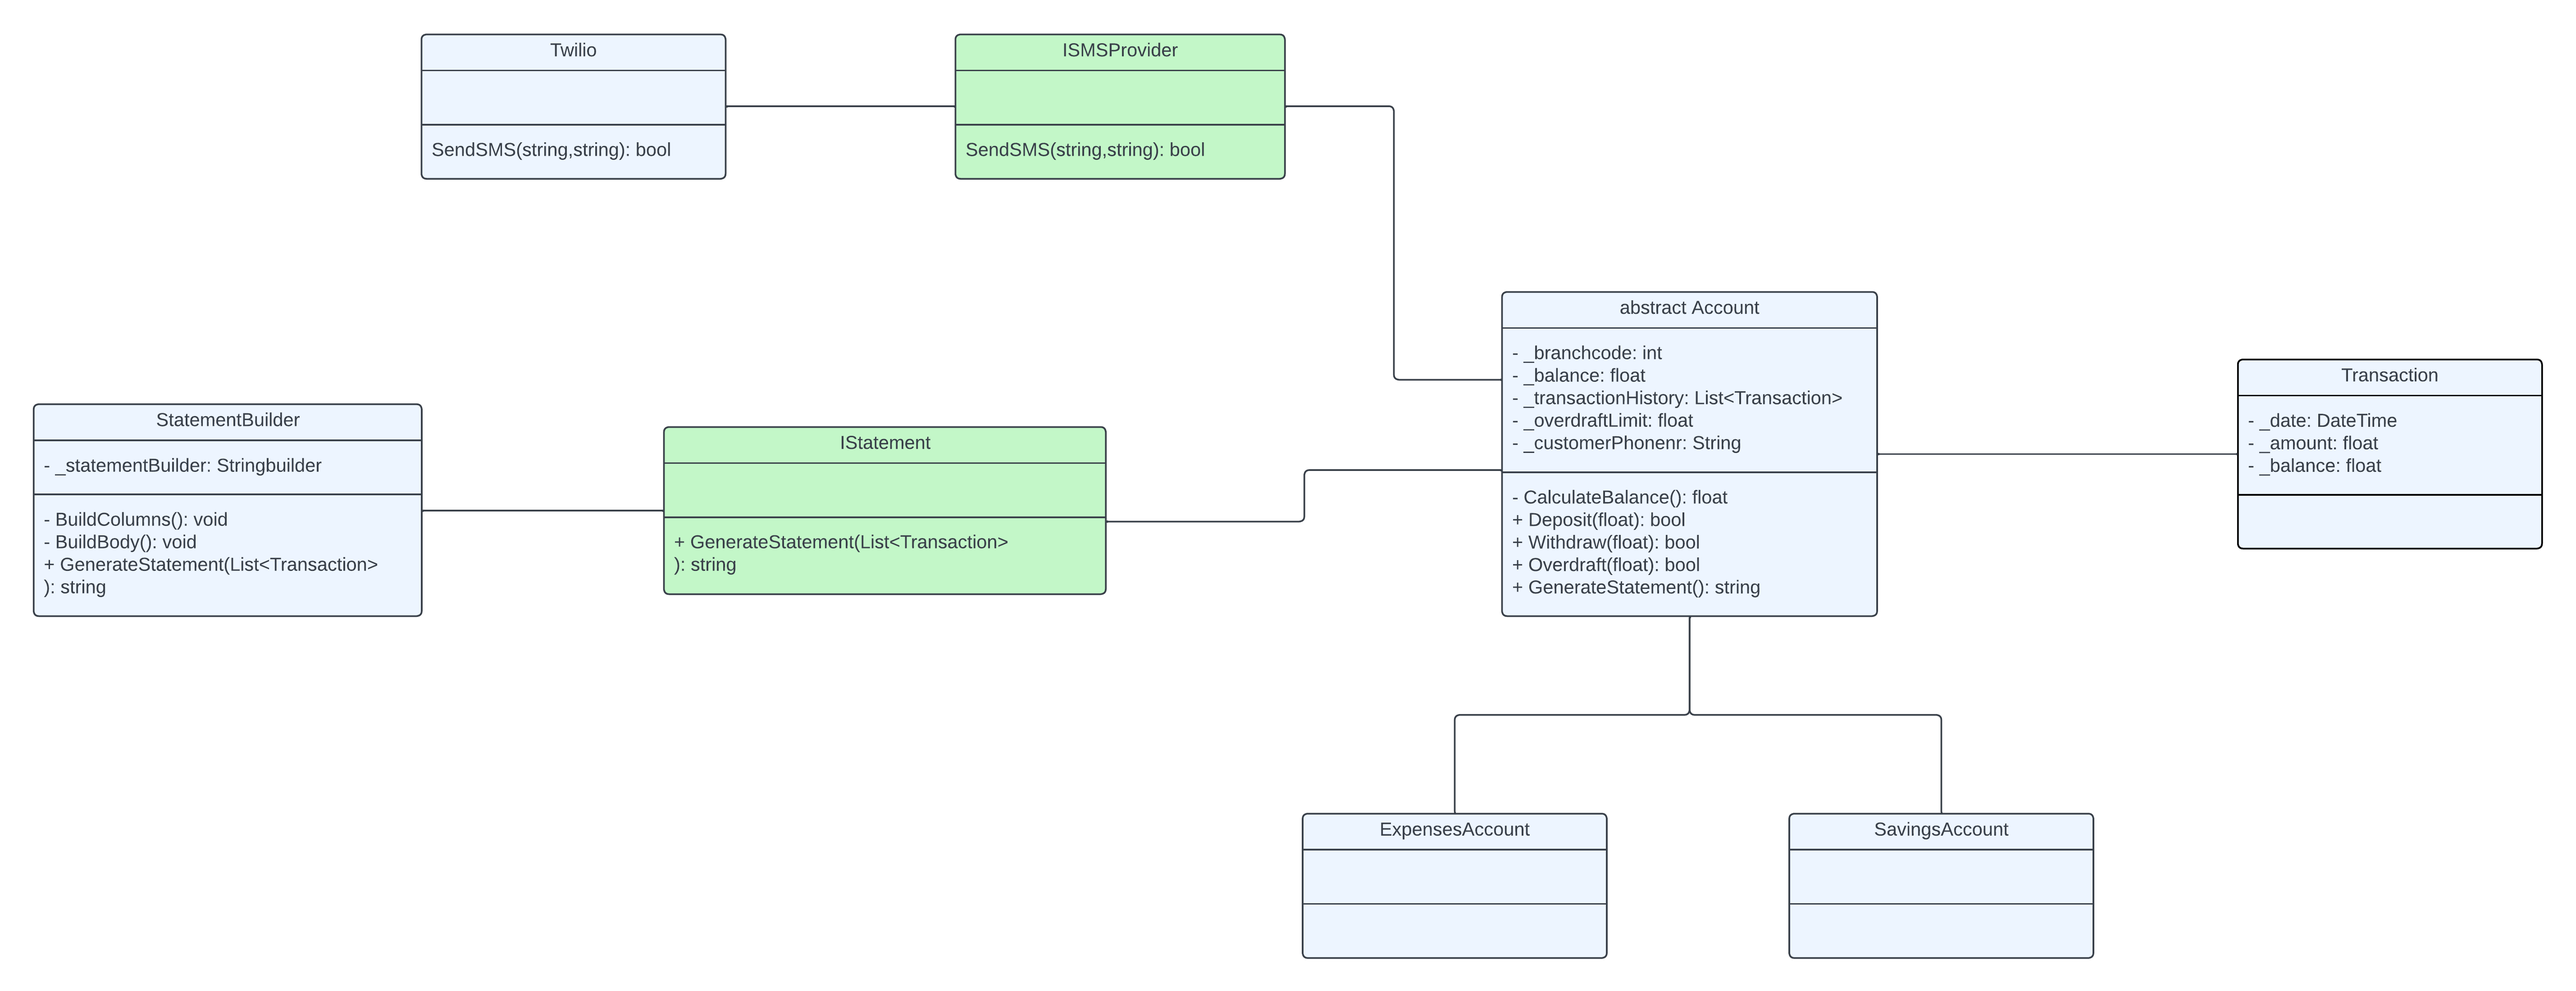
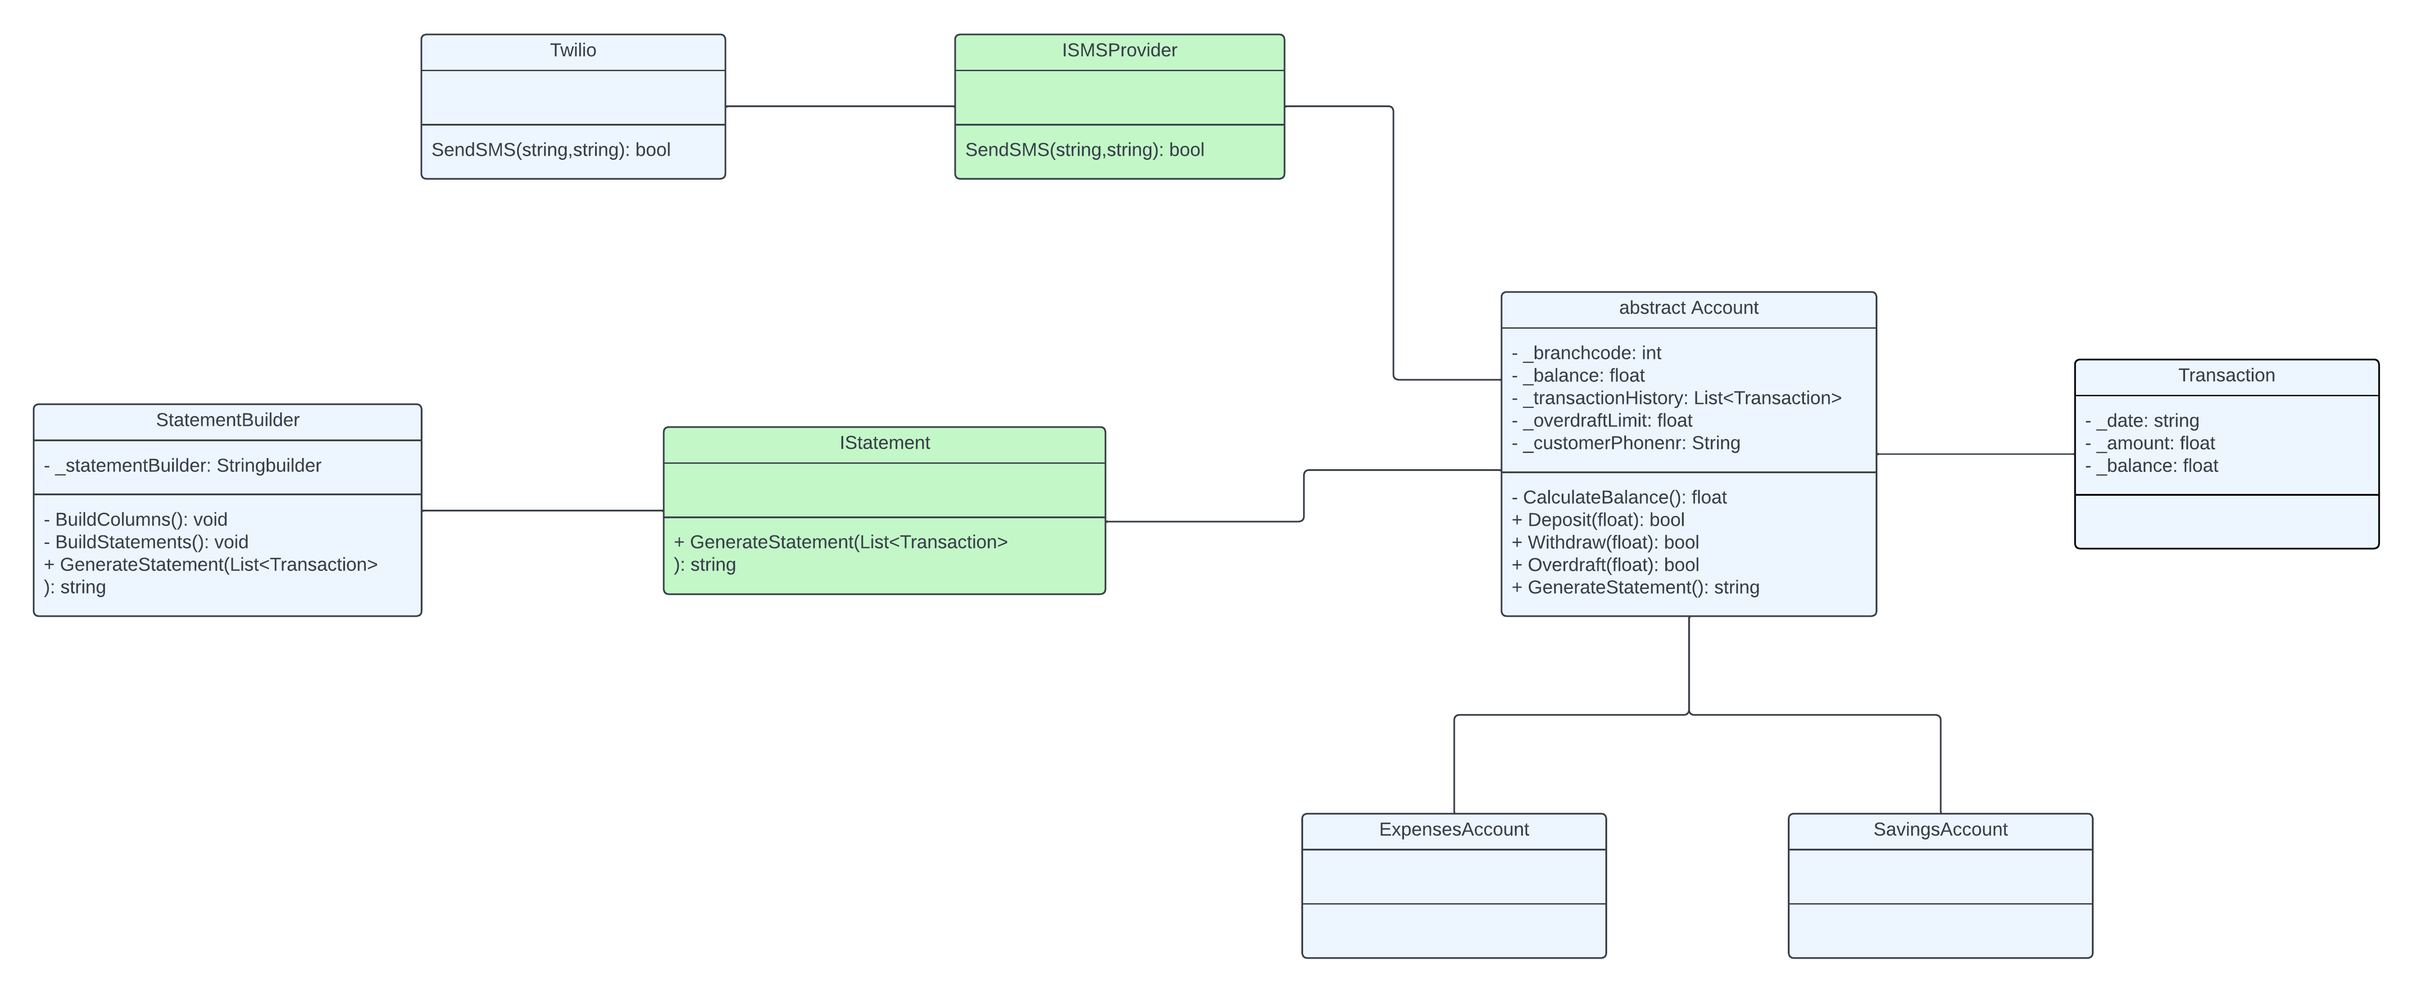
Updated domain model. Added skeleton for tests and code. gitignore for .env

diff --git a/Boolean.CSharp.Main/Account.cs b/Boolean.CSharp.Main/Account.cs
@@ -1,12 +1,23 @@
-using System;
-using System.Collections.Generic;
-using System.Linq;
-using System.Text;
-using System.Threading.Tasks;
-
-namespace Boolean.CSharp.Main
+namespace Boolean.CSharp.Main
 {
     public abstract class Account
     {
+        private float _branchcode;
+        private float _balance { get { return CalculateBalance(); } }
+        private List<Transaction> _transactionHistory = [];
+        private float _overdraftLimit = 1000f;
+        private string _customerPhoneNumber;
+
+        public Account(float branchcode, string customerPhoneNumber)
+        {
+            _branchcode = branchcode;
+            _customerPhoneNumber = customerPhoneNumber;
+        }
+
+        private float CalculateBalance() {throw new NotImplementedException(); }
+        public bool Deposit(float amount) { throw new NotImplementedException(); }
+        public bool Withdraw(float amount) {throw new NotImplementedException();}
+        public bool Overdraft(float amount){throw new NotImplementedException();}
+        public string GenerateStatement() { throw new NotImplementedException(); }
     }
 }

diff --git a/Boolean.CSharp.Test/CoreTests.cs b/Boolean.CSharp.Test/CoreTests.cs
@@ -6,19 +6,55 @@ namespace Boolean.CSharp.Test
     [TestFixture]
     public class CoreTests
     {
-        private Core _core;
-
-        public CoreTests()
-        {
-            _core = new Core();
-
-        }
-
         [Test]
-        public void TestQuestion1()
+        public void CreateAccount()
         {
 
         }
+        [Test]
+        public void CreateSavingsAccount()
+        {
 
+        }
+        [Test]
+        public void Deposit()
+        {
+
+        }
+        [Test]
+        public void DepositNothing()
+        {
+
+        }
+        [Test]
+        public void DepositNegative()
+        {
+
+        }
+        [Test]
+        public void Withdraw()
+        {
+
+        }
+        [Test]
+        public void WithdrawNegative()
+        {
+
+        }
+        [Test]
+        public void WithdrawMoreThanBalance()
+        {
+
+        }
+        [Test]
+        public void GenerateValidStatement()
+        {
+
+        }
+        [Test]
+        public void GenerateStatementFromNoTransactions()
+        {
+
+        }
     }
 }

diff --git a/Boolean.CSharp.Test/ExtensionTests.cs b/Boolean.CSharp.Test/ExtensionTests.cs
@@ -11,18 +11,18 @@ namespace Boolean.CSharp.Test
     [TestFixture]
     public class ExtensionTests
     {
-        private Extension _extension;
-        public ExtensionTests()
-        {
-            _extension = new Extension();
-        }
         [Test]
-        private void TestQuestion1()
+        public void Overdraft()
         {
 
         }
         [Test]
-        private void TestQuestion2()
+        public void OverdraftBeyondLimit()
+        {
+
+        }
+        [Test]
+        public void OverdraftPositiveBalance()
         {
 
         }

diff --git a/Boolean.CSharp.Main/StatementBuilder.cs b/Boolean.CSharp.Main/StatementBuilder.cs
@@ -8,5 +8,13 @@ namespace Boolean.CSharp.Main
 {
     public class StatementBuilder : IStatement
     {
+        private StringBuilder _statementBuilder = new();
+
+        private void BuildColumns() { throw new NotImplementedException(); }
+        private void BuildStatements() { throw new NotImplementedException(); }
+        public string GenerateStatement(List<Transaction> transactions)
+        {
+            throw new NotImplementedException();
+        }
     }
 }

diff --git a/Boolean.CSharp.Main/Transaction.cs b/Boolean.CSharp.Main/Transaction.cs
@@ -6,7 +6,11 @@ using System.Threading.Tasks;
 
 namespace Boolean.CSharp.Main
 {
-    public class Transaction
+    public class Transaction(float amount, float balance)
     {
+        private string _date = DateTime.Now.ToString("dd/MM/yyyy");
+        private float _amount = amount;
+        private float _balance = balance;
+
     }
 }

diff --git a/Boolean.CSharp.Main/ExpensesAccount.cs b/Boolean.CSharp.Main/ExpensesAccount.cs
@@ -8,5 +8,8 @@ namespace Boolean.CSharp.Main
 {
     public class ExpensesAccount : Account
     {
+        public ExpensesAccount(float branchcode, string customerPhoneNumber) : base(branchcode, customerPhoneNumber)
+        {
+        }
     }
 }

diff --git a/Boolean.CSharp.Main/SavingsAccount.cs b/Boolean.CSharp.Main/SavingsAccount.cs
@@ -8,5 +8,8 @@ namespace Boolean.CSharp.Main
 {
     public class SavingsAccount : Account
     {
+        public SavingsAccount(float branchcode, string customerPhoneNumber) : base(branchcode, customerPhoneNumber)
+        {
+        }
     }
 }

diff --git a/Boolean.CSharp.Main/Twilio.cs b/Boolean.CSharp.Main/Twilio.cs
@@ -8,5 +8,9 @@ namespace Boolean.CSharp.Main
 {
     public class Twilio : ISMSProvider
     {
+        public bool SendSMS(string phonenr, string statement)
+        {
+            throw new NotImplementedException();
+        }
     }
 }

diff --git a/Boolean.CSharp.Main/IStatement.cs b/Boolean.CSharp.Main/IStatement.cs
@@ -8,5 +8,7 @@ namespace Boolean.CSharp.Main
 {
     public interface IStatement
     {
+        public abstract string GenerateStatement(List<Transaction> transactions);
     }
 }
+

diff --git a/Boolean.CSharp.Main/ISMSProvider.cs b/Boolean.CSharp.Main/ISMSProvider.cs
@@ -8,5 +8,6 @@ namespace Boolean.CSharp.Main
 {
     public interface ISMSProvider
     {
+        public abstract bool SendSMS(string phonenr, string statement);
     }
 }
